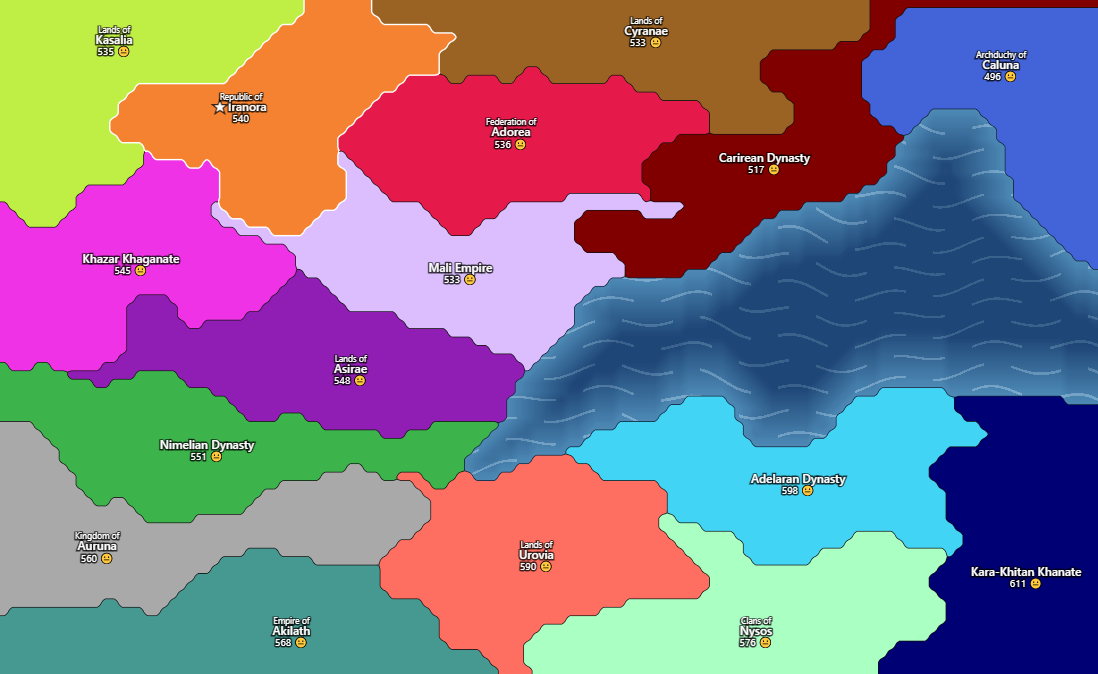
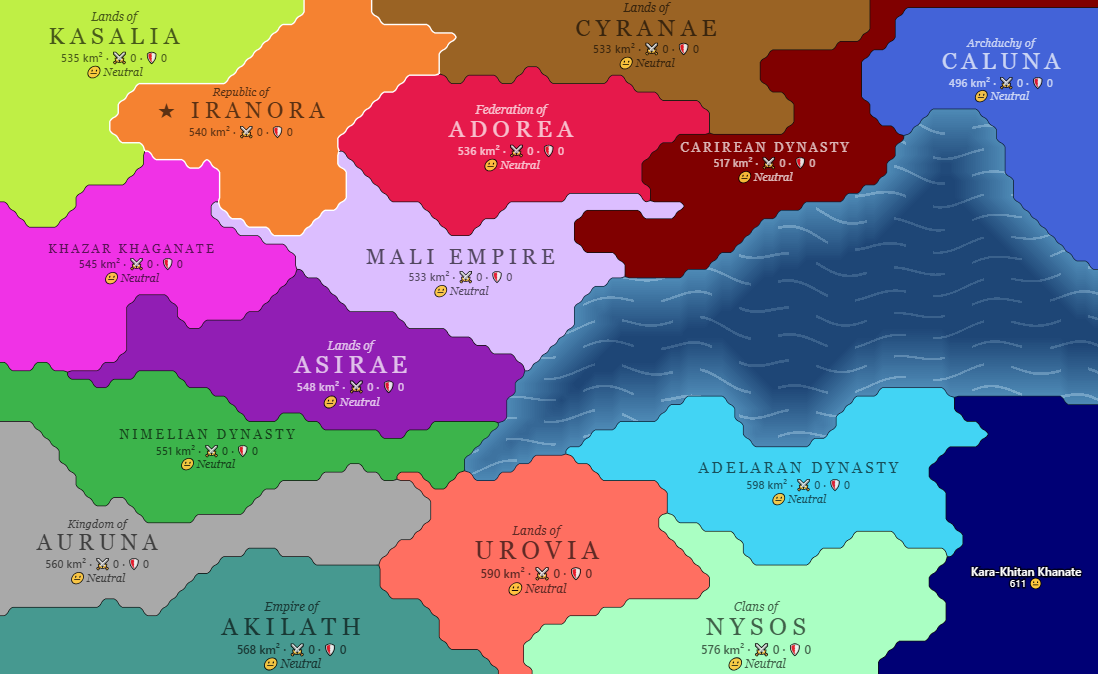
Make old atlas lettering + stats the default map label style
List it first in Settings and refresh the README map screenshot.

Claude-Session: https://claude.ai/code/session_01NWb4p5rmyJ1bJukpswMqH1

diff --git a/index.html b/index.html
@@ -203,7 +203,7 @@ const GEN_FIRST = ["Ivan","Karl","Pavel","Otto","Lev","Anton","Boris","Emil","Fe
 const GEN_LAST = ["Volkov","Brandt","Orlov","Kessler","Zorin","Lind","Novak","Sokol","Reiner","Petrov","Halden","Dragan","Marek","Stein","Kuzmin","Varga","Holt","Belov","Wolff","Radek"];
 
 const R = {
-  mapLabels: "classic",            // how state names look on a zoomed-in map: classic | atlas | plate
+  mapLabels: "atlas",              // how state names look on a zoomed-in map: atlas | classic | plate
   startPeasants: 800, startGrain: 2600, startMoney: 300,
   foodPerFarmer: 3,                // epic-battle style: every farmer produces food each year (no sowing)
   taxPerPeasant: 0.6,
@@ -1877,7 +1877,7 @@ class MapView{
       ctx.restore();
     }
     // labels for visible states that are big enough on screen
-    const L=labelSpots(g), fsC=Math.max(10,Math.min(15,this.z*1.4)), fs=fsC*this.dpr, style=R.mapLabels||"classic";
+    const L=labelSpots(g), fsC=Math.max(10,Math.min(15,this.z*1.4)), fs=fsC*this.dpr, style=R.mapLabels||"atlas";
     ctx.textAlign="center"; ctx.textBaseline="middle"; ctx.lineWidth=3*this.dpr; ctx.strokeStyle="#000b"; ctx.fillStyle="#fff";
     g.countries.forEach((c,id)=>{ const b=L.best[id]; if(b<0||!L.cnt[id]||(known&&!known[id])) return;
       const must=id===sel||(id===pl&&this.o.star);
@@ -2347,7 +2347,7 @@ try{ SETTINGS=JSON.parse(localStorage.getItem(SETTINGS_KEY)||"{}")||{}; }catch(e
 applySettings(SETTINGS);
 const TRAIT_COLS=[["attack","Attack"],["defense","Defense"],["food","Food"],["wood","Wood"],["iron","Iron"],["science","Science"],["growth","Growth"],["housing","Housing"],["explore","Explore"]];
 // General tab: [group, [[key, label, kind]]] — kind "%" shows ×100, "bool" a checkbox
-const LABEL_STYLES=[["classic","Classic white text"],["atlas","Old atlas lettering + stats"],["plate","Name plates + stats"]];
+const LABEL_STYLES=[["atlas","Old atlas lettering + stats"],["classic","Classic white text"],["plate","Name plates + stats"]];
 const SETTINGS_META=[
   ["Map",[["mapLabels","State names on the map (zoom in to see the style; small states keep classic text)","select"]]],
   ["Start",[["startPeasants","Starting peasants"],["startGrain","Starting grain"],["startMoney","Starting money"],["startWood","Starting wood"],["startIron","Starting iron"]]],
